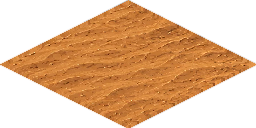
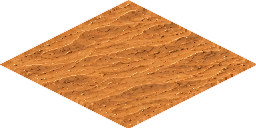
feat(suelo): lámina de arena y ácido que empalma mejor, recortada por sus cuatro esquinas
Las caras de la lámina nueva no son paralelogramos, así que el recorte pasa de afín a perspectiva con la
esquina de arriba medida. Los restos del canto que asoman unos px por encima del borde se descartan: se veían
como rayas entre baldosas.

Changed region(s): [[0.0312, 0.0, 1.0, 0.9688], [0.3438, 0.8125, 0.375, 0.8438], [0.2812, 0.1875, 0.3125, 0.2188]]

diff --git a/tools/slice_tiles.py b/tools/slice_tiles.py
@@ -3,10 +3,11 @@
 # Uso: python tools/slice_tiles.py
 #
 # Cada baldosa de la lámina es un bloque suelto: cara superior (rombo ~1,4:1) y un canto de tierra debajo. Se buscan
-# sus esquinas, se lleva la cara a un rombo 2:1 de 256×128 con una transformación afín y se tira el canto. Lo que
+# sus esquinas, se lleva la cara a un rombo 2:1 de 256×128 con una perspectiva por sus cuatro esquinas y se tira el canto. Lo que
 # sobresale por encima de la cara (árbol, poste, señales, surtidor) va aparte en `_top.png`, que el juego ordena en
 # profundidad con los personajes para que puedan pasar por detrás.
-# DECISIÓN: la afín aplasta ~30 % en vertical también los objetos; a esta escala apenas se nota y evita costuras.
+# DECISIÓN: la transformación aplasta ~30 % en vertical también los objetos; a esta escala apenas se nota y evita
+# costuras. Es de perspectiva y no afín porque las caras de las láminas no siempre son paralelogramos.
 import json
 from pathlib import Path
 
@@ -22,10 +23,11 @@ INSET = 0.98  # la cara se toma un poco hacia dentro para no arrastrar la arista
 RIM = 0.965  # desde aquí hasta el borde de la cara se rellena con el interior
 LIGHT = 30  # radio (px) de la luz de baja frecuencia que se aplana en las láminas de FLATTEN
 FLATTEN = ('suelo',)
+TOP_TOL = 12  # px que puede separarse la esquina de arriba medida de la del paralelogramo
 MIN_TOP = 8  # px que tiene que sobresalir un objeto para ir aparte
 # DECISIÓN: el suelo es solo arena y lagos de ácido; la decoración irá aparte, como objetos sin baldosa.
 SHEETS = {
-    'suelo': Path('ARTE/tiles_suelo_acido.webp'),
+    'suelo': Path('ARTE/tiles_suelo_acido_2.webp'),
 }
 
 yy, xx = np.mgrid[0 : HEAD + H, 0:W]
@@ -59,15 +61,24 @@ def corners(blob: np.ndarray):
     wall = ((lcol.max() - lcol.min()) + (rcol.max() - rcol.min())) / 2
     bottom = ys.max()
     B = np.array([xs[ys >= bottom - 1].mean(), bottom - wall], float)
+    # Esquina de arriba: la medida, salvo que la tape algo que sobresale; entonces la del paralelogramo.
+    T = L + R - B
+    top = ys.min()
+    if abs(top - T[1]) < TOP_TOL:
+        T = np.array([xs[ys <= top + 1].mean(), top], float)
     C = (L + R) / 2
-    return C + (L - C) * INSET, C + (R - C) * INSET, C + (B - C) * INSET
+    return [C + (P - C) * INSET for P in (L, R, B, T)]
 
 
-def affine_for(L, R, B):
-    """Coeficientes para Image.transform(AFFINE): de coordenadas destino a origen."""
-    dst = np.array([[0, cyw, 1], [W, cyw, 1], [W / 2, HEAD + H, 1]], float)
-    m = np.linalg.solve(dst, np.array([L, R, B], float))
-    return (m[0, 0], m[1, 0], m[2, 0], m[0, 1], m[1, 1], m[2, 1])
+def perspective_for(L, R, B, T):
+    """Coeficientes para Image.transform(PERSPECTIVE): de coordenadas destino a origen."""
+    dst = [(0, cyw), (W, cyw), (W / 2, HEAD + H), (W / 2, HEAD)]
+    a = []
+    for (x, y), (u, v) in zip(dst, (L, R, B, T)):
+        a.append([x, y, 1, 0, 0, 0, -u * x, -u * y, u])
+        a.append([0, 0, 0, x, y, 1, -v * x, -v * y, v])
+    a = np.array(a, float)
+    return tuple(np.linalg.solve(a[:, :8], a[:, 8]))
 
 
 def flatten_light(rgb: np.ndarray, ref: np.ndarray) -> None:
@@ -85,9 +96,9 @@ def slice_sheet(name: str, path: Path) -> list[dict]:
     mask = nd.binary_opening(np.array(img).max(2) > BLACK, iterations=2)
     out = []
     for i, blob in enumerate(blobs(mask)):
-        coef = affine_for(*corners(blob))
-        t = np.array(img.transform((W, HEAD + H), Image.AFFINE, coef, resample=Image.BICUBIC)).astype(float)
-        mine = np.array(Image.fromarray(blob).transform((W, HEAD + H), Image.AFFINE, coef, resample=Image.NEAREST))
+        coef = perspective_for(*corners(blob))
+        t = np.array(img.transform((W, HEAD + H), Image.PERSPECTIVE, coef, resample=Image.BICUBIC)).astype(float)
+        mine = np.array(Image.fromarray(blob).transform((W, HEAD + H), Image.PERSPECTIVE, coef, resample=Image.NEAREST))
         # Arista: el bisel oscuro y el fondo negro que pueda colarse toman el color más cercano del interior.
         edge = in_face & ((dist > RIM) | (t.max(2) < 45))
         iy, ix = nd.distance_transform_edt(edge | ~in_face, return_distances=False, return_indices=True)
@@ -102,6 +113,10 @@ def slice_sheet(name: str, path: Path) -> list[dict]:
         stick &= nd.binary_opening(stick, iterations=1)
         rows = np.where(stick.any(1))[0]
         head = max(0, int(HEAD - rows.min())) if len(rows) else 0
+        # Unos pocos px por encima del borde son restos del canto, no un objeto: fuera, que se ven como rayas.
+        if head < MIN_TOP:
+            stick[:] = False
+            head = 0
         a = nd.gaussian_filter((in_face | stick).astype(float), 0.6)
         a[in_face] = 1.0
         rgba = np.dstack([np.clip(t, 0, 255), np.clip(a, 0, 1) * 255]).astype(np.uint8)[HEAD - head :]
